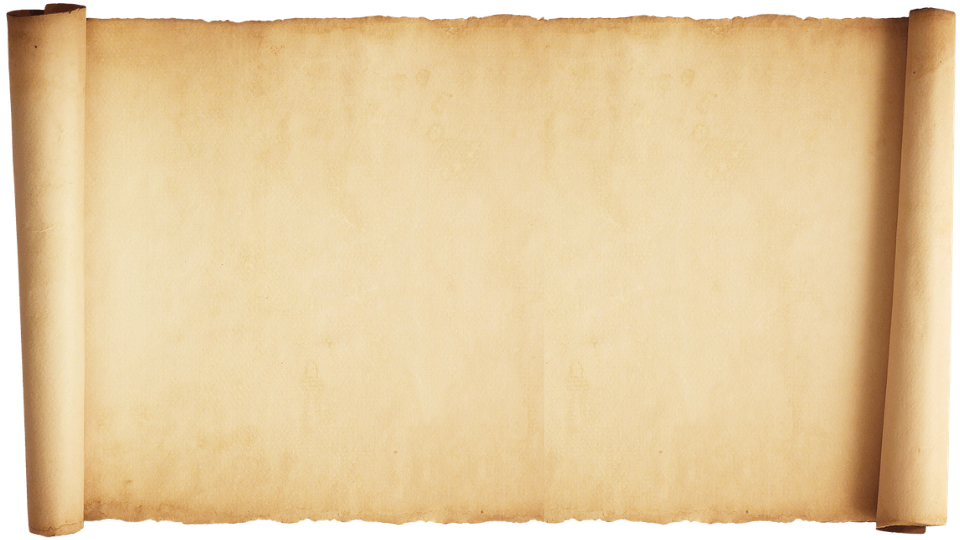
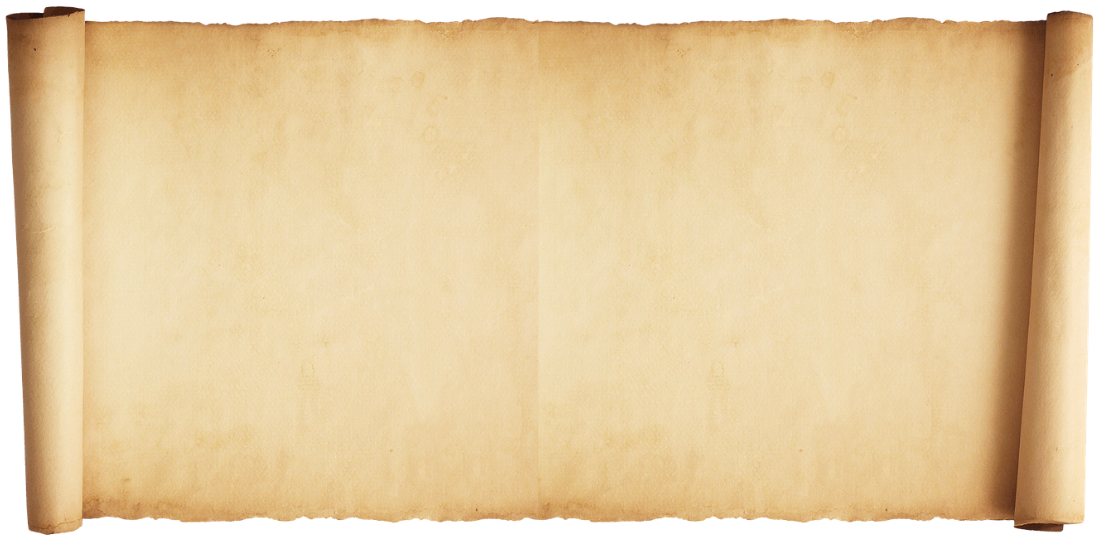
finalziação pergaminho cena

Changed region(s): [[0.0, 0.0, 1.0, 1.0], [0.3125, 0.0889, 0.3438, 0.1481]]

diff --git a/aventuras.css b/aventuras.css
@@ -235,14 +235,27 @@ select {
   min-height: 0;
   min-height: 0;
 
-  display: grid;
-  grid-template-columns:
-    auto
-    minmax(0, 1fr)
-    auto;
-  grid-template-rows: minmax(0, 1fr);
+  display: flex;
+  justify-content: center;
+  align-items: flex-start;
 
   overflow: hidden;
+}
+
+.pergaminho-completo {
+  display: block;
+
+  height: 100%;
+  width: auto;
+
+  max-width: none;
+  max-height: 100%;
+
+  
+
+  object-fit: contain;
+
+  pointer-events: none;
 }
 
 .pergaminho-lateral {
@@ -297,17 +310,17 @@ select {
 }
 
 .conteudo-pergaminho-cena {
-  grid-column: 2;
-  grid-row: 1;
+  position: absolute;
 
-  position: relative;
+  top: 11%;
+  right: 8%;
+  bottom: 10%;
+  left: 8%;
+
+  z-index: 2;
 
   min-width: 0;
   min-height: 0;
-
-  margin: 4% -1% 4% -1%;
-
-  z-index: 3;
 
   overflow-y: auto;
   overflow-x: hidden;

diff --git a/aventuras.html b/aventuras.html
@@ -63,6 +63,13 @@
             <div class="pergaminho-cena">
 
               <img
+  class="pergaminho-completo"
+  src="Imagens/Assets/scroll-02-completo.webp"
+  alt=""
+  aria-hidden="true"
+>
+
+             <!-- <img
     class="pergaminho-lateral pergaminho-esquerda"
     src="Imagens/Assets/scroll-02-esquerda.webp"
     alt=""
@@ -76,7 +83,7 @@
     src="Imagens/Assets/scroll-02-direita.webp"
     alt=""
     aria-hidden="true"
-  >
+  >-->
 
                <div class="conteudo-pergaminho-cena">
                   <div class="conteudo-cena">
